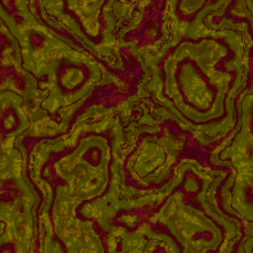
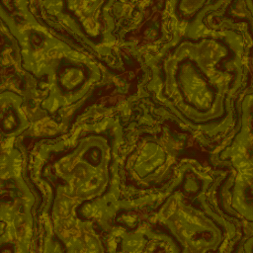
integration biomes + petite restructure classe hud

diff --git a/world_gen.py b/world_gen.py
@@ -1,5 +1,6 @@
 import pyglet
 from pyglet.gl import *
+import numpy as np
 import time
 
 
@@ -24,10 +25,19 @@ vertex_source = """#version 330 core
 fragment_source = """#version 330 core
         in vec3 texture_coords;
         uniform vec2 cam_coords;
-        uniform sampler2D tex0;
-        uniform sampler2D tex1;
-        uniform sampler2D tex2;
-        uniform sampler2D tex3;
+        uniform sampler2D tex_water;
+        uniform sampler2D tex_tes0;
+        uniform sampler2D tex_tes1;
+        uniform sampler2D tex_tes2;
+        uniform sampler2D tex_for0;
+        uniform sampler2D tex_for1;
+        uniform sampler2D tex_des0;
+        uniform sampler2D tex_des1;
+        uniform sampler2D tex_des2;
+        uniform sampler2D tex_sec0;
+        uniform sampler2D tex_sec2;
+        uniform sampler2D tex_pla0;
+        uniform sampler2D tex_pla2;
         /*
         uniform sampler2D tex4;
         uniform sampler2D tex5;
@@ -50,8 +60,8 @@ fragment_source = """#version 330 core
         #define TEX_AMM_Y 1.4229249011857708 // SY/TAILLEIMAGE
         #define TEX1_AMM_Y 1.469387755102041
         #define TEX2_AMM_Y 1.5584415584415585
-        #define MAP_SIZE_X 389
-        #define MAP_SIZE_Y 891
+        #define MAP_SIZE_X 1248
+        #define MAP_SIZE_Y 2352
 
         #define M_PI 3.14159265358979323846
 
@@ -80,18 +90,14 @@ fragment_source = """#version 330 core
             return center * 2.0 - 1.0;
         }
 
-        float waterMask(float maskPixel, vec2 position){
-            vec2 map_position = vec2((position.x*SX+(sin(position.y*SY*0.0625))*8)/(MAP_SIZE_X*128), ((position.y*SY+(cos(position.x*SX*0.0625))*8)/(MAP_SIZE_Y*128)));
-            if(texture(map, map_position).r < 0.5){
-                return -1.0;
-            }
-            return maskPixel;
+        int get_map_biome(vec2 position){
+            vec2 map_position = vec2((position.x*SX+(sin(position.y*SY*0.0625))*8)/(MAP_SIZE_X*8), ((position.y*SY+(cos(position.x*SX*0.0625))*8)/(MAP_SIZE_Y*8)));
+            return int(round(texture(map, map_position).r*6));
         }
 
         void main(){
             vec2 position = cam_coords.xy+texture_coords.xy;
-            float maskPixel = perlin(position, 0.015625, 1)+0.3333333333333334;
-            maskPixel = waterMask(maskPixel, position);
+            int maskPixel = get_map_biome(position);
             float darkenPixel1 = perlin(position, 5, 1)*0.0625;
             //fragColor = vec4(maskPixel);
             //fragColor.a = 1.0;
@@ -104,34 +110,32 @@ fragment_source = """#version 330 core
             //vec2 texCanc1Position = vec2((position.x+(perlin(positionTimed, 5, 1)*0.05))*14.883720930232558, (position.y+(perlin(positionTimed, 5, 1)*0.05))*8.372093023255815);
 
             vec4 baseColor = vec4(0, 0, 0, 0);
-            if(maskPixel < -0.6666666666666666){
-                vec2 positionTimed = vec2(position.x+(time*0.125), position.y+(time*0.125));
-                //texPosition = vec2((position.x+cos(positionTimed.x*8)*0.025)*TEX_AMM_X, (position.y+sin(positionTimed.x*8)*0.025)*TEX_AMM_Y);
-                texPosition = vec2((position.x+(perlin(positionTimed, 5, 1))*0.025)*WAT_AMM_X, (position.y+(perlin(positionTimed, 5, 1)*0.025))*WAT_AMM_Y);
-                baseColor = texture(tex0, texPosition);
+            switch(maskPixel){
+                case 0:
+                    vec2 positionTimed = vec2(position.x+(time*0.125), position.y+(time*0.125));
+                    //texPosition = vec2((position.x+cos(positionTimed.x*8)*0.025)*TEX_AMM_X, (position.y+sin(positionTimed.x*8)*0.025)*TEX_AMM_Y);
+                    texPosition = vec2((position.x+(perlin(positionTimed, 5, 1))*0.025)*WAT_AMM_X, (position.y+(perlin(positionTimed, 5, 1)*0.025))*WAT_AMM_Y);
+                    baseColor = texture(tex_water, texPosition);
+                    break;
+                case 1:
+                    baseColor = texture(tex_sec0, texPosition) * vec4(0.33, 0.33, 0.33, 0.33) + texture(tex_des1, tex1Position) * vec4(0.33, 0.33, 0.33, 0.33) + texture(tex_sec2, tex2Position) * vec4(0.33, 0.33, 0.33, 0.33);
+                    break;
+                case 2:
+                    baseColor = texture(tex_des0, texPosition) * vec4(0.33, 0.33, 0.33, 0.33) + texture(tex_des1, tex1Position) * vec4(0.33, 0.33, 0.33, 0.33) + texture(tex_des2, tex2Position) * vec4(0.33, 0.33, 0.33, 0.33);
+                    break;
+                case 3:
+                    baseColor = texture(tex_des0, texPosition) * vec4(0.33, 0.33, 0.33, 0.33) + texture(tex_tes1, tex1Position) * vec4(0.33, 0.33, 0.33, 0.33) + texture(tex_tes2, tex2Position) * vec4(0.33, 0.33, 0.33, 0.33);
+                    break;
+                case 4:
+                    baseColor = texture(tex_tes0, texPosition) * vec4(0.33, 0.33, 0.33, 0.33) + texture(tex_tes1, tex1Position) * vec4(0.33, 0.33, 0.33, 0.33) + texture(tex_tes2, tex2Position) * vec4(0.33, 0.33, 0.33, 0.33);
+                    break;
+                case 5:
+                    baseColor = texture(tex_for0, texPosition) * vec4(0.33, 0.33, 0.33, 0.33) + texture(tex_for1, tex1Position) * vec4(0.33, 0.33, 0.33, 0.33) + texture(tex_tes2, tex2Position) * vec4(0.33, 0.33, 0.33, 0.33);
+                    break;
+                case 6:
+                    baseColor = texture(tex_pla0, texPosition) * vec4(0.33, 0.33, 0.33, 0.33) + texture(tex_des1, tex1Position) * vec4(0.33, 0.33, 0.33, 0.33) + texture(tex_pla2, tex2Position) * vec4(0.33, 0.33, 0.33, 0.33);
+                    break;
             }
-            else{
-                baseColor = texture(tex1, texPosition) * vec4(0.33, 0.33, 0.33, 0.33) + texture(tex2, tex1Position) * vec4(0.33, 0.33, 0.33, 0.33) + texture(tex3, tex2Position) * vec4(0.33, 0.33, 0.33, 0.33);
-                //float noising = (perlin(position, 5, 1)+1)*0.5;
-                //baseColor = baseColor * vec4(noising, noising, noising, noising) + texture(tex3, texCanc1Position) * vec4(1-noising, 1-noising, 1-noising, 1-noising);
-            }
-            /*
-            else if(maskPixel < -0.3333333333333333){
-                baseColor = texture(tex1, texPosition);
-            }
-            else if(maskPixel < 0){
-                baseColor = texture(tex2, texPosition);
-            }
-            else if(maskPixel < 0.3333333333333333){
-                baseColor = texture(tex3, texPosition);
-            }
-            else if(maskPixel < 0.6666666666666666){
-                baseColor = texture(tex4, texPosition);
-            }
-            else{
-                baseColor = texture(tex5, texPosition);
-            }
-            */
             fragColor = vec4(baseColor.r+darkenPixel1*baseColor.r, baseColor.g+darkenPixel1*baseColor.r, baseColor.b+darkenPixel1*baseColor.r, alpha);
         }
 """
@@ -153,17 +157,21 @@ class WorldGenGroup(pyglet.graphics.Group):
     def pixel_to_screen(self, x, y):
         return x/self._SIZE_X, y/self._SIZE_Y
 
+    def pixel_pos_to_world(self, x, y):
+        return int((x+np.sin((y+self._SIZE_X)*0.0625)*8)/8), (-int(((y+self._SIZE_Y)+np.cos(x*0.0625)*8)/8))
+
     def update(self, cam_x, cam_y):
         self.cam_x, self.cam_y = self.pixel_to_screen(cam_x, cam_y)
         print(self.cam_x, self.cam_y)
+        print(self.pixel_pos_to_world(cam_x, cam_y))
         self.program["time"] = time.time()%10000
 
     def set_state(self):
         self.program.use()
         glActiveTexture(GL_TEXTURE0)
         glBindTexture(self.map_texture.target, self.map_texture.id)
-        glTexParameteri(self.map_texture.target, GL_TEXTURE_MIN_FILTER, GL_LINEAR)
-        glTexParameteri(self.map_texture.target, GL_TEXTURE_MAG_FILTER, GL_LINEAR)
+        #glTexParameteri(self.map_texture.target, GL_TEXTURE_MIN_FILTER, GL_LINEAR)
+        #glTexParameteri(self.map_texture.target, GL_TEXTURE_MAG_FILTER, GL_LINEAR)
         glActiveTexture(GL_TEXTURE1)
         glBindTexture(self.textures[0+self.tile_offset].target, self.textures[0+self.tile_offset].id)
         glActiveTexture(GL_TEXTURE2)
@@ -172,6 +180,24 @@ class WorldGenGroup(pyglet.graphics.Group):
         glBindTexture(self.textures[2+self.tile_offset].target, self.textures[2+self.tile_offset].id)
         glActiveTexture(GL_TEXTURE4)
         glBindTexture(self.textures[3].target, self.textures[3].id)
+        glActiveTexture(GL_TEXTURE5)
+        glBindTexture(self.textures[4+self.tile_offset].target, self.textures[4+self.tile_offset].id)
+        glActiveTexture(GL_TEXTURE6)
+        glBindTexture(self.textures[5+self.tile_offset].target, self.textures[5+self.tile_offset].id)
+        glActiveTexture(GL_TEXTURE7)
+        glBindTexture(self.textures[6+self.tile_offset].target, self.textures[6+self.tile_offset].id)
+        glActiveTexture(GL_TEXTURE8)
+        glBindTexture(self.textures[7+self.tile_offset].target, self.textures[7+self.tile_offset].id)
+        glActiveTexture(GL_TEXTURE9)
+        glBindTexture(self.textures[8+self.tile_offset].target, self.textures[8+self.tile_offset].id)
+        glActiveTexture(GL_TEXTURE10)
+        glBindTexture(self.textures[9+self.tile_offset].target, self.textures[9+self.tile_offset].id)
+        glActiveTexture(GL_TEXTURE11)
+        glBindTexture(self.textures[10+self.tile_offset].target, self.textures[10+self.tile_offset].id)
+        glActiveTexture(GL_TEXTURE12)
+        glBindTexture(self.textures[11+self.tile_offset].target, self.textures[11+self.tile_offset].id)
+        glActiveTexture(GL_TEXTURE13)
+        glBindTexture(self.textures[12+self.tile_offset].target, self.textures[12+self.tile_offset].id)
         """
         glActiveTexture(GL_TEXTURE5)
         glBindTexture(self.textures[4].target, self.textures[4].id)
@@ -184,10 +210,19 @@ class WorldGenGroup(pyglet.graphics.Group):
         #print(self.program["cam_coords"])
         #self.program["mask"] = self.mask.id
         #self.program["map"] = self.map_texture.id
-        self.program["tex0"] = self.textures[0+self.tile_offset].id
-        self.program["tex1"] = self.textures[1+self.tile_offset].id
-        self.program["tex2"] = self.textures[2+self.tile_offset].id
-        self.program["tex3"] = self.textures[3+self.tile_offset].id
+        self.program["tex_water"] = self.textures[0+self.tile_offset].id
+        self.program["tex_tes0"] = self.textures[1+self.tile_offset].id
+        self.program["tex_tes1"] = self.textures[2+self.tile_offset].id
+        self.program["tex_tes2"] = self.textures[3+self.tile_offset].id
+        self.program["tex_for0"] = self.textures[4+self.tile_offset].id
+        self.program["tex_for1"] = self.textures[5+self.tile_offset].id
+        self.program["tex_des0"] = self.textures[6+self.tile_offset].id
+        self.program["tex_des1"] = self.textures[7+self.tile_offset].id
+        self.program["tex_des2"] = self.textures[8+self.tile_offset].id
+        self.program["tex_sec0"] = self.textures[9+self.tile_offset].id
+        self.program["tex_sec2"] = self.textures[10+self.tile_offset].id
+        self.program["tex_pla0"] = self.textures[11+self.tile_offset].id
+        self.program["tex_pla2"] = self.textures[12+self.tile_offset].id
         """
         self.program["tex4"] = self.textures[4].id
         self.program["tex5"] = self.textures[5].id
@@ -200,10 +235,19 @@ class WorldGenGroup(pyglet.graphics.Group):
 
 class WorldGen:
     def __init__(self, scale, size_x, size_y):
-        mape = pyglet.image.load("map/map.png")
+        mape = pyglet.image.load("map/biome_map.png")
         tiles = (pyglet.image.load("img/tiles/eau.png"),
+                 pyglet.image.load("img/tiles/tes0.png"),
+                 pyglet.image.load("img/tiles/tes1.png"),
+                 pyglet.image.load("img/tiles/tes2.png"),
+                 pyglet.image.load("img/tiles/for0.png"),
+                 pyglet.image.load("img/tiles/for1.png"),
+                 pyglet.image.load("img/tiles/des0.png"),
+                 pyglet.image.load("img/tiles/des1.png"),
+                 pyglet.image.load("img/tiles/des2.png"),
+                 pyglet.image.load("img/tiles/sec0.png"),
+                 pyglet.image.load("img/tiles/sec2.png"),
                  pyglet.image.load("img/tiles/pla0.png"),
-                 pyglet.image.load("img/tiles/sec1.png"),
                  pyglet.image.load("img/tiles/pla2.png"))
         self._window_scale = scale
         self._SIZE_X = size_x

diff --git a/createmap.py b/createmap.py
@@ -1,6 +1,6 @@
 from PIL import Image
 
-index = ((255, 255, 0, 255), (128, 128, 0, 255), (200, 255, 0, 255), (150, 255, 150, 255), (0, 255, 0, 255), (200, 200, 200, 255), (255, 255, 255, 255))
+index = ((42, 42, 42, 255), (84, 84, 84, 255), (126, 126, 126, 255), (168, 168, 168, 255), (210, 210, 210, 255))
 
 table = (
     # TEMP
@@ -18,18 +18,18 @@ table = (
 
 
 if __name__ == "__main__":
-    temp = Image.open("map/tempmap.png")
-    preci = Image.open("map/precimap.png")
+    temp = Image.open("map/tempmap1.png")
+    preci = Image.open("map/precimap1.png")
     final = Image.new(mode="RGBA", size=preci.size, color=(0, 0, 0, 0))
 
     for x in range(temp.size[0]):
         for y in range(temp.size[1]):
             if temp.getpixel((x, y))[1] == 0:
-                final.putpixel((x, y), (0, 0, 255, 255))
+                final.putpixel((x, y), (0, 0, 0, 255))
                 continue
             if 0 < x < temp.size[0]-1 and 0 < y < temp.size[1]-1:
                 if not temp.getpixel((x-1, y))[1] or not temp.getpixel((x-1, y-1))[1] or not temp.getpixel((x, y-1))[1] or not temp.getpixel((x+1, y-1))[1] or not temp.getpixel((x+1, y))[1] or not temp.getpixel((x+1, y+1))[1] or not temp.getpixel((x, y+1))[1] or not temp.getpixel((x-1, y+1))[1]:
-                    final.putpixel((x, y), (255, 0, 255, 255))
+                    final.putpixel((x, y), (255, 255, 255, 255))
                     continue
             pixel_to_put = (0, 0, 0, 0)
             temp_value = int((temp.getpixel((x, y))[0]/255)*10)

diff --git a/hud.py b/hud.py
@@ -3,24 +3,24 @@ import numpy
 from worldsprite import WorldSprite
 
 
-class Hud:
+class CarIndicatorHud:
     def __init__(self, size_x, size_y, scale, batch):
         self._SIZE_X = size_x
         self._SIZE_Y = size_y
         self.batch = batch
         self.SCALE = scale
         self.car_circle = pyglet.shapes.Circle(x=100, y=150, batch=batch, radius=8, color=(255, 41, 41))
-       
+
     def get_relative_pos(self, x, y, cam_x, cam_y):
-        return x - cam_x, y - cam_y
-    
+            return x - cam_x, y - cam_y
+
     def update(self, car_x, car_y, cam_x, cam_y):
         rel_x, rel_y = self.get_relative_pos(car_x, car_y, cam_x, cam_y)
         if 0 <= rel_x < self._SIZE_X :
             if 0 <= rel_y < self._SIZE_Y :
                 self.car_circle.visible = False
                 return
-    
+
         self.car_circle.visible = True
         self.car_circle.x = rel_x
         self.car_circle.y = rel_y
@@ -32,4 +32,11 @@ class Hud:
             self.car_circle.y = self._SIZE_Y - 8
         elif rel_y < 0:
             self.car_circle.y = 8
-        
+
+
+class Hud:
+    def __init__(self, size_x, size_y, scale, batch):
+        self.car_indicator = CarIndicatorHud(size_x, size_y, scale, batch)
+
+    def update(self, car_x, car_y, cam_x, cam_y):
+        self.car_indicator.update(car_x, car_y, cam_x, cam_y)
